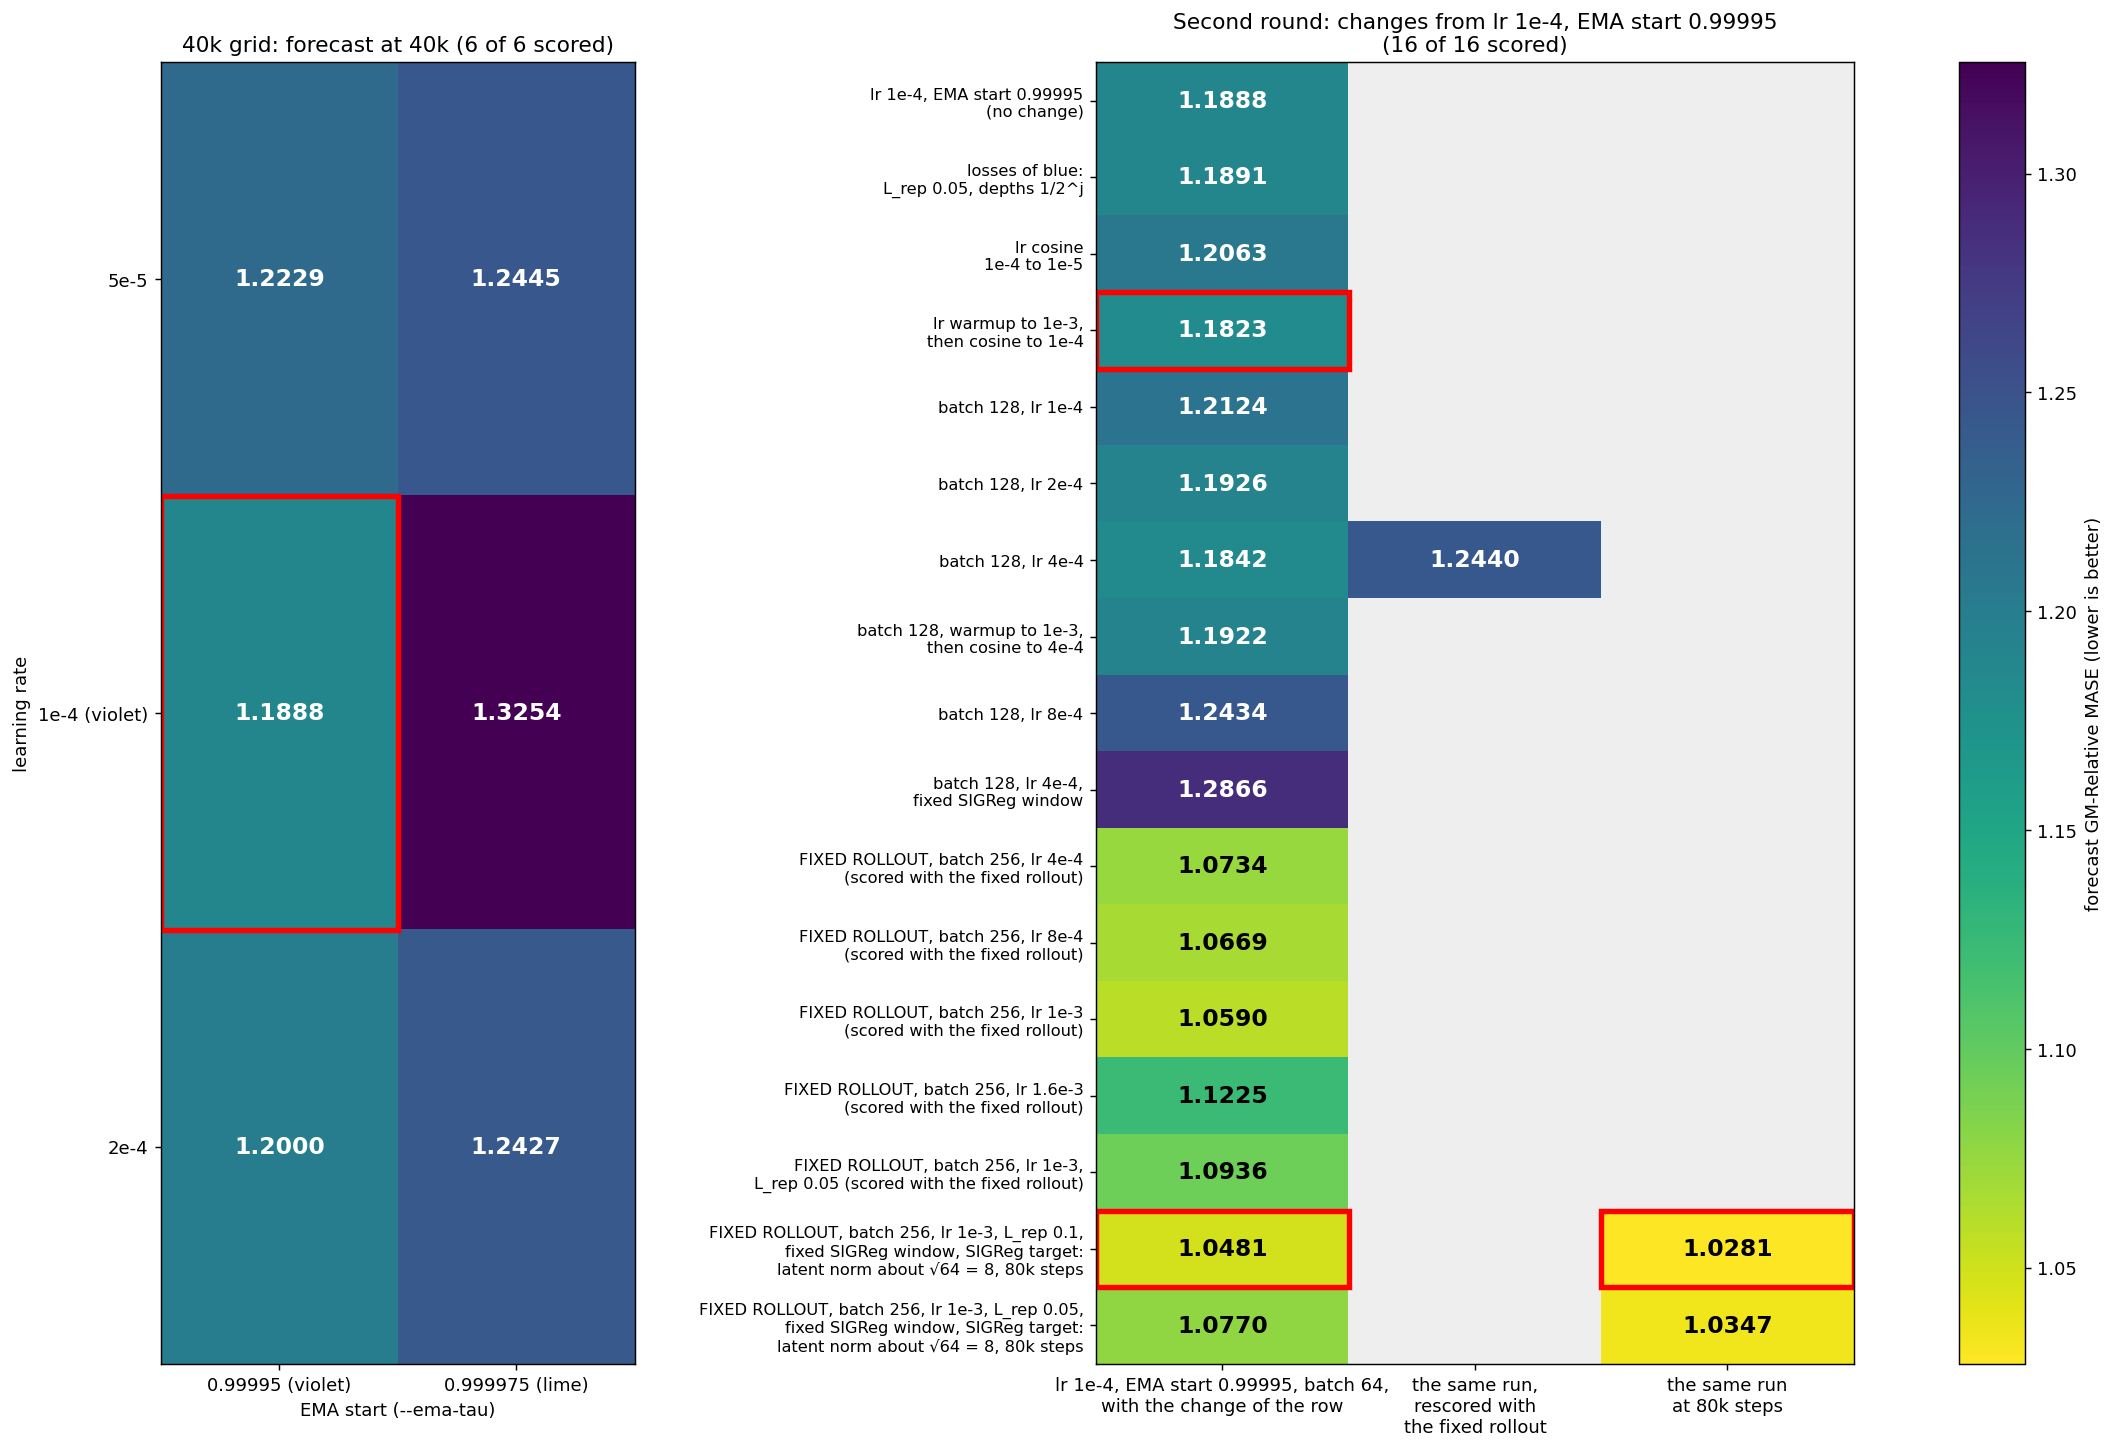
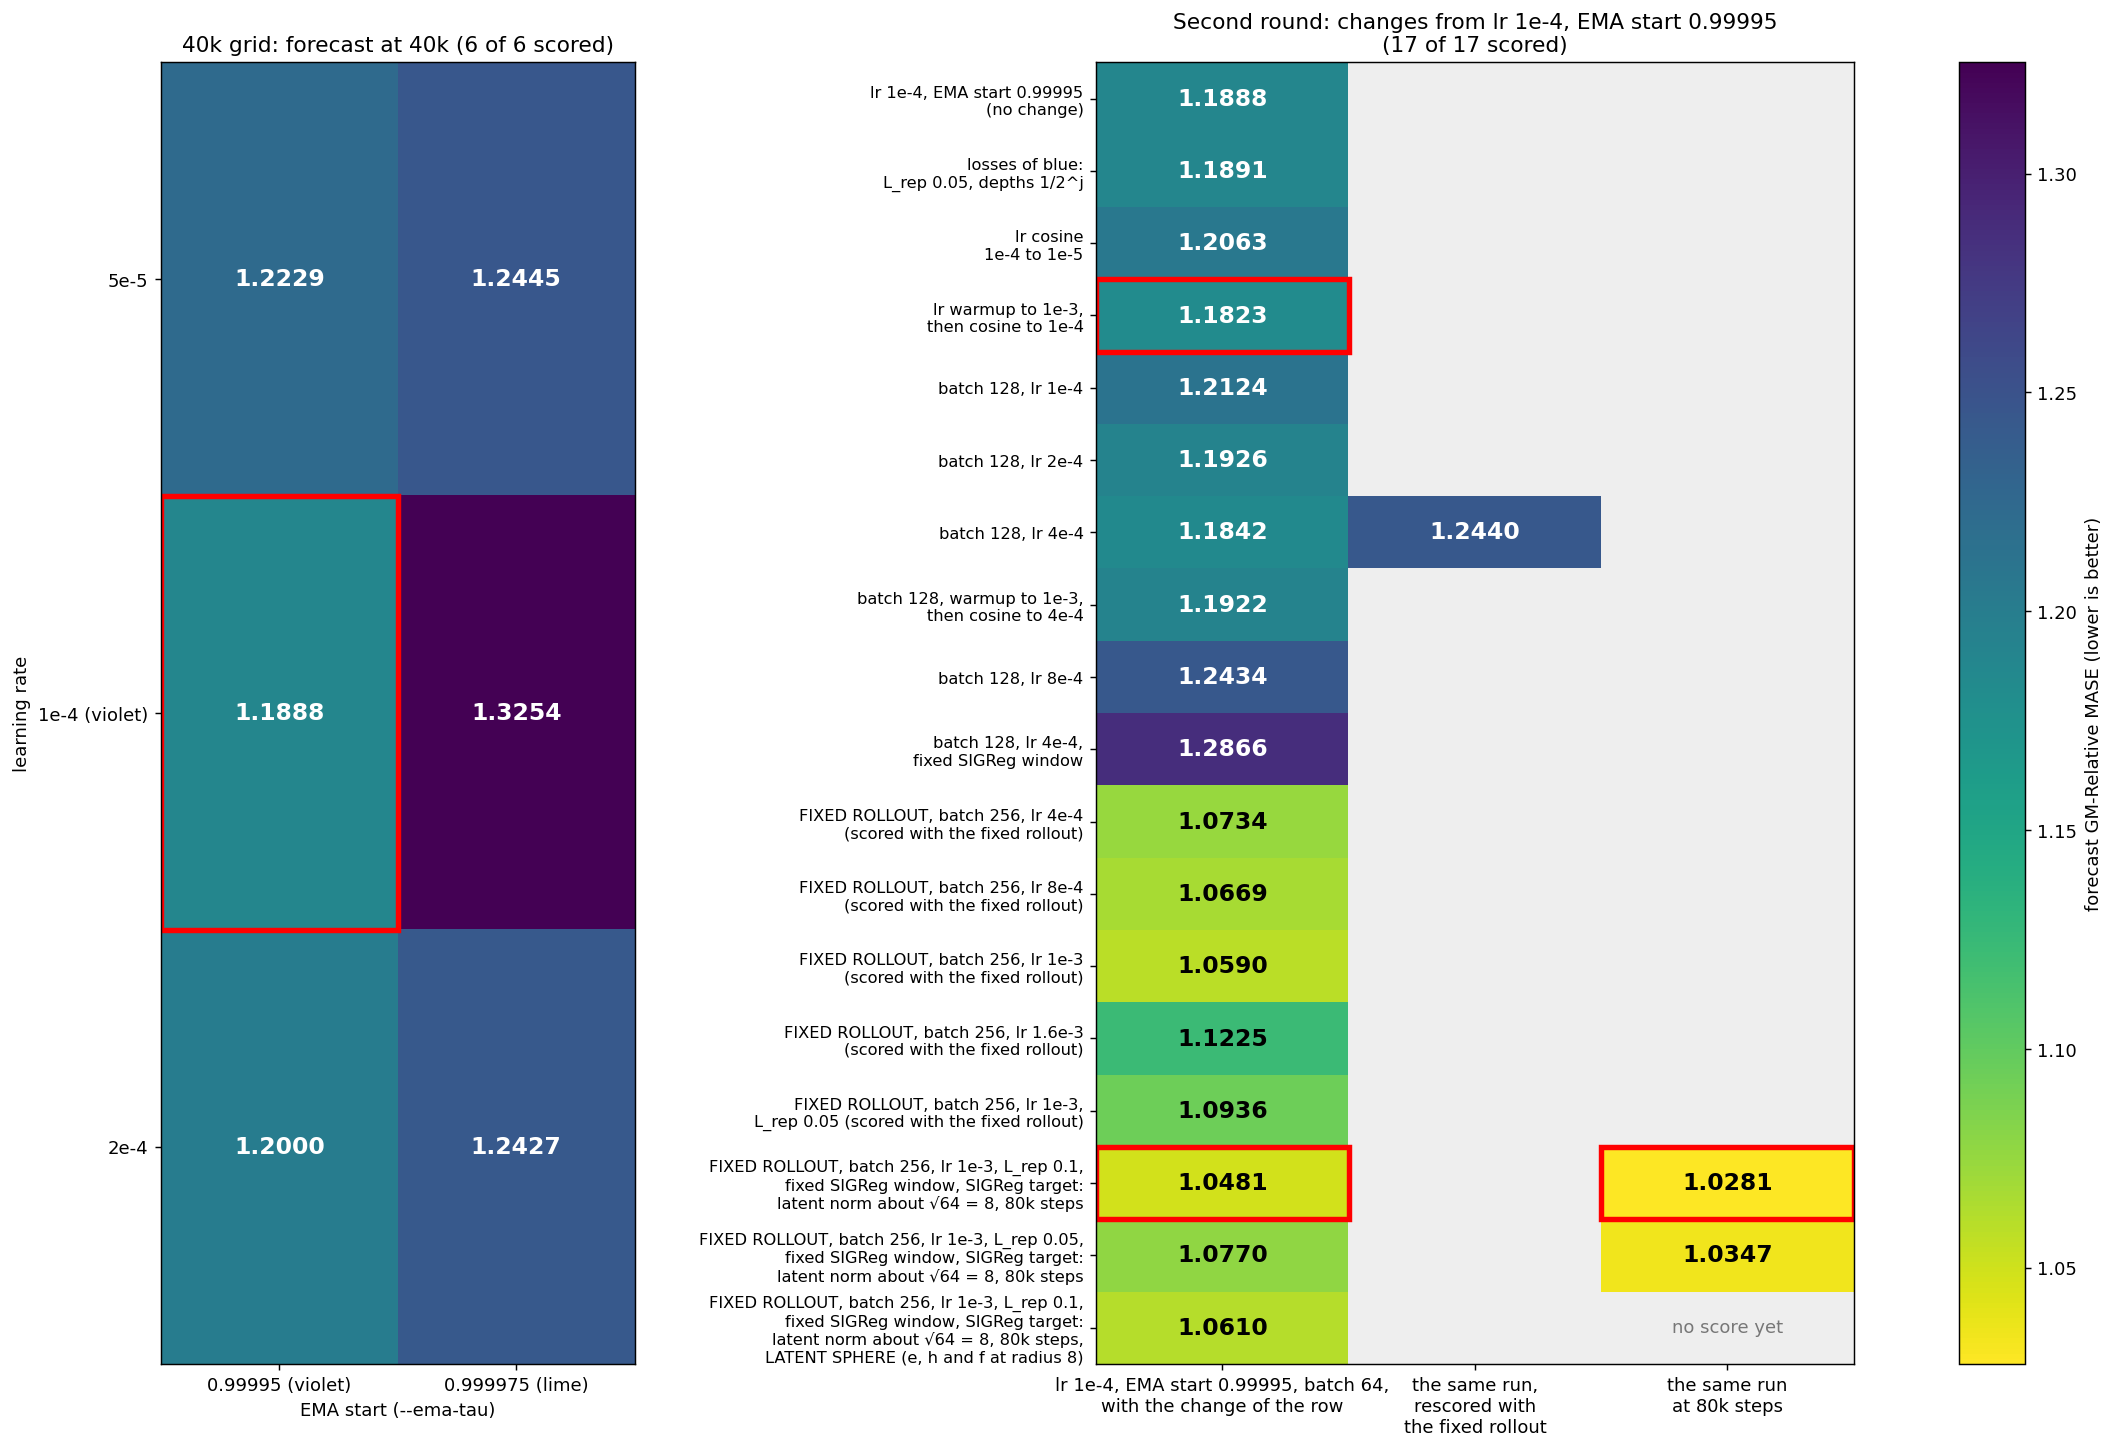
Grid figures: the latent-sphere run at 40k (1.0610; without the sphere 1.0481)
g80b_lr1em3_tau99995_bs256_rep01_sigfix_ss_sphere_rollfix (the L_rep 0.1
SIGReg-scale run with --latent-sphere, trained and scored on the box) gets
1.0610 at 40k (short 0.9580, medium 1.2082, long 1.2175). It gets a row in the
heatmap (its 80k cell waits for the score), a line in the radar and in the
training figure (dark red), and a row in grid40k_gm_points.tsv (the GM MASE
figure draws only S256 of the grid: unchanged).

diff --git a/reports/2026-10-10_frequency_family_head/scripts/plot_grid40k.py b/reports/2026-10-10_frequency_family_head/scripts/plot_grid40k.py
@@ -74,7 +74,9 @@ ROUND2 = {BEST: ("lr 1e-4, EMA start 0.99995\n(no change)", "1e-4"),
           "g80b_lr1em3_tau99995_bs256_rep01_sigfix_ss_rollfix": (
               "FIXED ROLLOUT, batch 256, lr 1e-3, L_rep 0.1,\nfixed SIGReg window, SIGReg target:\nlatent norm about √64 = 8, 80k steps", "1e-3"),
           "g80b_lr1em3_tau99995_bs256_rep005_sigfix_ss_rollfix": (
-              "FIXED ROLLOUT, batch 256, lr 1e-3, L_rep 0.05,\nfixed SIGReg window, SIGReg target:\nlatent norm about √64 = 8, 80k steps", "1e-3")}
+              "FIXED ROLLOUT, batch 256, lr 1e-3, L_rep 0.05,\nfixed SIGReg window, SIGReg target:\nlatent norm about √64 = 8, 80k steps", "1e-3"),
+          "g80b_lr1em3_tau99995_bs256_rep01_sigfix_ss_sphere_rollfix": (
+              "FIXED ROLLOUT, batch 256, lr 1e-3, L_rep 0.1,\nfixed SIGReg window, SIGReg target:\nlatent norm about √64 = 8, 80k steps,\nLATENT SPHERE (e, h and f at radius 8)", "1e-3")}
 # The planned runs of the search, not started: (row label, when). The user (11-03 about
 # 21:05 UTC): the heatmap shows them; each one moves into ROUND2 when it starts.
 PLANNED = []
@@ -88,7 +90,8 @@ ROUND2_COLOURS = {BEST: "#d95f02", "g40b_lr1em4_tau99995_rep005h": "#1f77b4",
                   "g40b_lr1em3_tau99995_bs256_rollfix": "#ff00ff", "g40b_lr1p6em3_tau99995_bs256_rollfix": "#000000",
                   "g40b_lr1em3_tau99995_bs256_rep005_rollfix": "#8b008b",
                   "g80b_lr1em3_tau99995_bs256_rep01_sigfix_ss_rollfix": "#0000ff",
-                  "g80b_lr1em3_tau99995_bs256_rep005_sigfix_ss_rollfix": "#00ff7f"}
+                  "g80b_lr1em3_tau99995_bs256_rep005_sigfix_ss_rollfix": "#00ff7f",
+                  "g80b_lr1em3_tau99995_bs256_rep01_sigfix_ss_sphere_rollfix": "#800000"}
 
 
 def run_score(run, k=40):

diff --git a/reports/2026-10-10_frequency_family_head/scripts/plot_grid40k_round2.py b/reports/2026-10-10_frequency_family_head/scripts/plot_grid40k_round2.py
@@ -71,6 +71,8 @@ RUNS = {
                                                         (1e-3, 1e-3, 2 * STEPS, 0), False),
     "g80b_lr1em3_tau99995_bs256_rep005_sigfix_ss_rollfix": ("80k steps, fixed SIGReg window, SIGReg target: latent norm about √64 = 8, batch 256, lr 1e-3, L_rep 0.05",
                                                          (1e-3, 1e-3, 2 * STEPS, 0), False),
+    "g80b_lr1em3_tau99995_bs256_rep01_sigfix_ss_sphere_rollfix": ("80k steps, the L_rep 0.1 run above with the latent sphere (e, h and f at radius 8)",
+                                                                (1e-3, 1e-3, 2 * STEPS, 0), False),
 }
 
 

diff --git a/reports/2026-10-10_frequency_family_head/frequency_family_head.md b/reports/2026-10-10_frequency_family_head/frequency_family_head.md
@@ -110,6 +110,9 @@ At 80k, it gets 1.0347 (short 0.9351, medium 1.1755, long 1.1874), 0.0066 above 
 Its short score is lower: 0.9351 against 0.9584.
 A third 80k run adds `--latent-sphere` to the L_rep 0.1 run (contrastive-forecasting #453): e, h and f go on one sphere of radius 8 after SIGReg.
 At 20k, it gets 1.0691 (short 0.9897, medium 1.1871, long 1.1781).
+At 40k, it gets 1.0610 (short 0.9580, medium 1.2082, long 1.2175), 0.0129 above the run without the sphere.
+With the sphere, the short score is lower (0.9580 against 0.9741), and the medium and long scores are higher (1.2082 against 1.1572, 1.2175 against 1.1500).
+The heatmap has its row.
 With the fixed rollout, batch 128 at 4e-4 gets 1.2440, and 1.1842 with the raw rollout (the middle column).
 This run trained with the raw rollout feedback.
 At 40k, the fixed rollout also gives higher scores for violet (1.1948 against 1.1430) and blue (1.2337 against 1.1944), the two muP runs with the flags of the grid.
